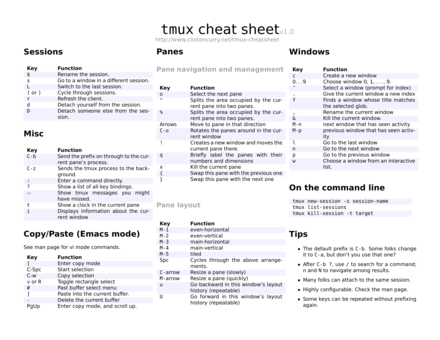
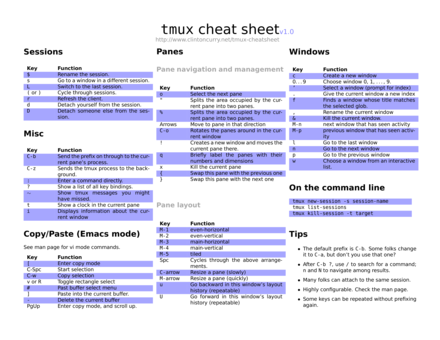
Adjusted colors in background

diff --git a/tmux-cheatsheet.tex b/tmux-cheatsheet.tex
@@ -17,10 +17,10 @@
 
 \begin{document}
 \thispagestyle{empty}
-\rowcolors{2}{white}{blue!5}
+\rowcolors{2}{white}{blue!35}
 \begin{center}
   \Huge \texttt{tmux} cheat sheet% 
-  \rlap{\color{blue!35}\large{v1.0}}%
+  \rlap{\color{blue!50}\large{v1.0}}%
   \llap{\raisebox{-1ex}{%
       \normalsize\color{gray}http://www.clintoncurry.net/tmux-cheatsheet}}
 \end{center}
